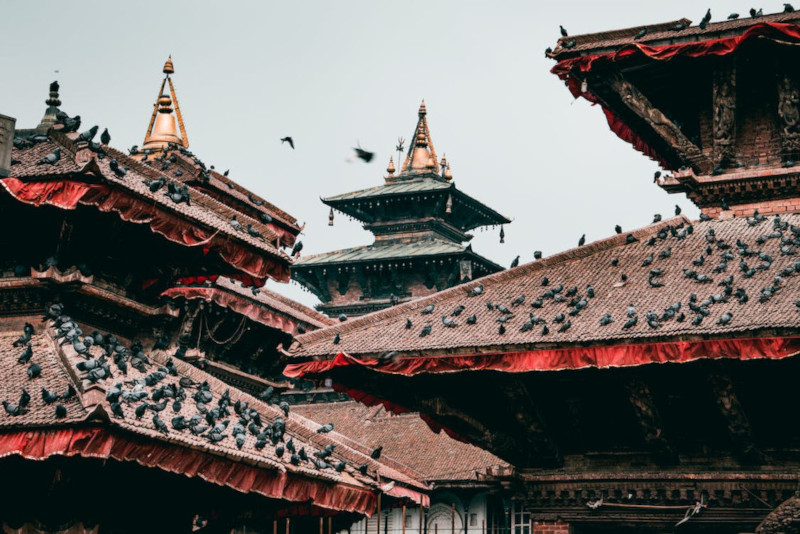
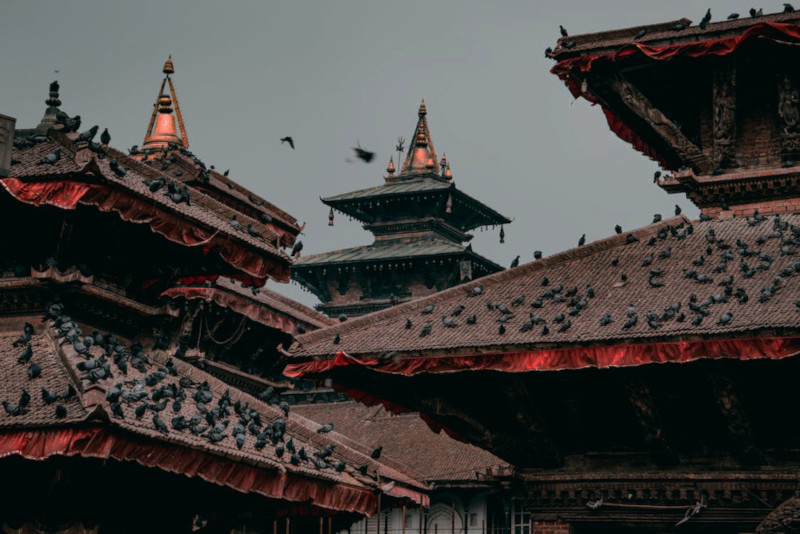
added hero text animation and changed image scaling (#4)

diff --git a/styles/kathmandu.css b/styles/kathmandu.css
@@ -12,6 +12,8 @@
 html{
     font-size: 62.5%;
     scroll-behavior: smooth;
+    background-color: #1F2937;
+
 }
 .flex-center{
 	display: flex;
@@ -124,7 +126,7 @@ nav{
 /*************************************************************/
 
 .hero-section{
-    background-image:  linear-gradient(rgba(0, 0, 0, 0.4),rgba(0, 0, 0, 0.4)),url("../images/kathmandu/kathmandu-1.jpeg");
+    background-image: url("../images/kathmandu/kathmandu-1.jpeg");
     background-color: rgba(0,0,0,0.5);
     background-size: cover;
     background-repeat: no-repeat;
@@ -138,12 +140,15 @@ nav{
     text-wrap: wrap;
     max-width: 50rem;
     text-shadow: 1px 1px 2px black;
+    animation: TextUpAnimation 1s ease-in;
 }
 .hero-section h2{
     font-size: 2.4rem;
     text-wrap: wrap;
     max-width: 100rem;
+    opacity: 0;
     text-shadow: 1px 1px 2px black;
+    animation: TextUpAnimation 1s ease-in 0.5s forwards;
 }
 
 .hero-section a{
@@ -155,9 +160,22 @@ nav{
     font-weight: 600;
     text-align: center;
     transition: all 200ms;
+    opacity: 0;
+    animation: TextUpAnimation 1s ease-in 1s forwards;
 }
 .hero-section a:hover{
     background-color: #2469da;
+}
+
+@keyframes TextUpAnimation {
+    0%{
+        opacity: 0;
+        transform: translateY(50%);
+    }
+    100%{
+        opacity: 1;
+        transform: translateY(0);
+    }
 }
 
 /*************************************************************/
